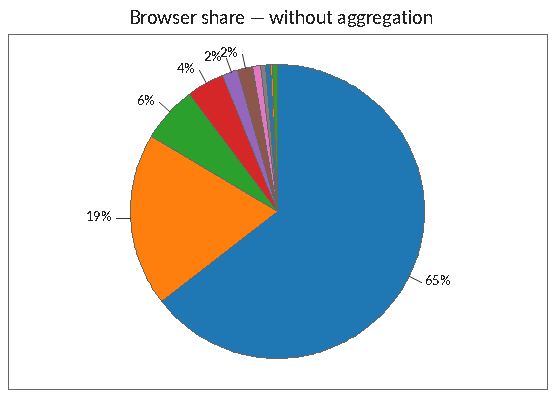
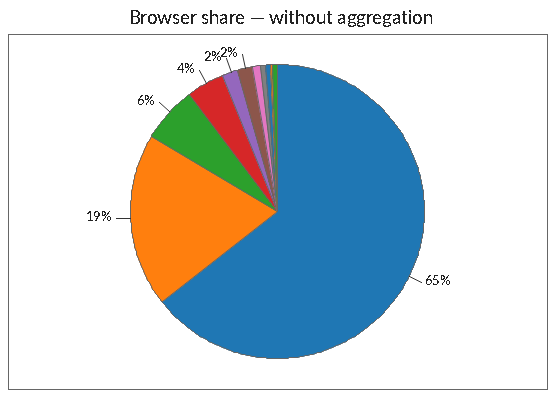
Polygon edge AA + second review-round fixes
Visual polish: anti-aliased outlines on filled-polygon and filled-wedge
shapes via two new helpers in fastchart_effects.{c,h}:

- fastchart_filled_polygon_aa() — gdImageFilledPolygon plus a
  gdAntiAliased outline pass over each edge. Wired into AreaChart
  (filled series + alpha overlay), PolarChart (filled radial polygon),
  and RadarChart (filled spider polygon).
- fastchart_filled_wedge_aa() — gdImageFilledArc(... gdPie) plus an
  AA outer arc and AA radial edges. Wired into PieChart (slices) and
  GaugeChart (zone arcs + sweep fill).

Gauge zone boundaries, pie slice separators, and radar / polar /
area angled edges now read smooth instead of stepped. Eight gallery
PNGs regenerate visibly: 05_pie_donut, 08_radar, 10_gauge, 16_polar,
27a_area_stacked, 27b_area_overlay, 29a_pie_no_threshold,
29b_pie_other.

Review-round fixes (all six findings, validated against source):

- StockChart double-free on log-scale failure: efree(candles) in the
  log-range error path freed self->candles via a local alias; the
  per-class extras destructor then double-freed on object dtor.
  Removed the stale efree; comment names the alias hazard.
- Format-string width / precision DoS: snprintf width is honored by
  libc, so "%500000000f" forced render hot paths into a multi-second
  loop. Capped width and precision digit counts at 3 in the format
  validator.
- setErrorBars allocation cap: clamped n to
  FASTCHART_MAX_POINTS_PER_SERIES (was unbounded).
[…]

Changed region(s): [[0.4554, 0.18, 0.5161, 0.51], [0.4554, 0.54, 0.4857, 0.57], [0.3946, 0.18, 0.425, 0.21]]

diff --git a/fastchart.c b/fastchart.c
@@ -1960,12 +1960,30 @@ static int fastchart_validate_double_format(const zend_string *fmt, const char *
         /* Skip flags */
         while (i < len && (p[i] == '-' || p[i] == '+' || p[i] == ' ' ||
                             p[i] == '#' || p[i] == '0' || p[i] == '\'')) i++;
-        /* Skip width */
-        while (i < len && p[i] >= '0' && p[i] <= '9') i++;
-        /* Skip precision */
+        /* Cap width and precision at three digits (max 999). libc's
+         * printf(3) honors the width by padding the output buffer; a
+         * format like "%500000000f" forces snprintf into a multi-second
+         * loop that translates straight into request CPU when chart
+         * labels render. Three digits is more than enough for any real
+         * label (max chart canvas is ~16K px wide). */
+        int wdigits = 0;
+        while (i < len && p[i] >= '0' && p[i] <= '9') {
+            if (++wdigits > 3) {
+                zend_value_error("FastChart\\Chart::%s() format width is capped at three digits", where);
+                return -1;
+            }
+            i++;
+        }
         if (i < len && p[i] == '.') {
             i++;
-            while (i < len && p[i] >= '0' && p[i] <= '9') i++;
+            int pdigits = 0;
+            while (i < len && p[i] >= '0' && p[i] <= '9') {
+                if (++pdigits > 3) {
+                    zend_value_error("FastChart\\Chart::%s() format precision is capped at three digits", where);
+                    return -1;
+                }
+                i++;
+            }
         }
         /* Reject length modifiers (l, ll, h, etc. -- they imply
          * non-double arg types). */
@@ -2439,6 +2457,12 @@ static int fastchart_parse_error_bars(zval *errs, double **out_lo,
         *out_n = 0;
         return 0;
     }
+    /* Cap at the per-series point limit so error-bar arrays can't
+     * blow past the bounds the rest of the series-data parsers
+     * enforce. setErrorBars data is per-point, so the appropriate
+     * cap is FASTCHART_MAX_POINTS_PER_SERIES — extra entries beyond
+     * that simply have no data point to attach to. */
+    if (n > FASTCHART_MAX_POINTS_PER_SERIES) n = FASTCHART_MAX_POINTS_PER_SERIES;
     double *lo = emalloc((size_t)n * sizeof(double));
     double *hi = emalloc((size_t)n * sizeof(double));
 
@@ -3340,22 +3364,38 @@ ZEND_METHOD(FastChart_PieChart, setExplode)
 
     fastchart_pie_obj *self = Z_FASTCHART_PIE_OBJ_P(ZEND_THIS);
     HashTable *ht = Z_ARRVAL_P(offsets);
-    uint32_t un = zend_hash_num_elements(ht);
     if (self->explode) { efree(self->explode); self->explode = NULL; }
     self->explode_count = 0;
-    if (un == 0) RETURN_ZVAL(ZEND_THIS, 1, 0);
-    if (un > FASTCHART_MAX_SLICES) un = FASTCHART_MAX_SLICES;
-    int n = (int)un;
+    if (zend_hash_num_elements(ht) == 0) RETURN_ZVAL(ZEND_THIS, 1, 0);
+
+    /* The stub documents [2 => 12] sparse syntax: the user names a
+     * slice index, the rest stay at 0. Walk by integer key so that
+     * sparse maps work; allocate through max(key) + 1 capped at
+     * FASTCHART_MAX_SLICES. The previous positional 0..n-1 walk
+     * silently dropped any entry whose key was beyond the element
+     * count (so [2 => 12] became n=1 and ignored slice 2). */
+    zend_ulong max_key = 0;
+    bool any_int = false;
+    {
+        zend_ulong k_idx;
+        zend_string *k_str;
+        zval *v;
+        ZEND_HASH_FOREACH_KEY_VAL(ht, k_idx, k_str, v) {
+            (void)v;
+            if (k_str) continue;  /* string keys ignored */
+            if (k_idx >= FASTCHART_MAX_SLICES) continue;
+            if (!any_int || k_idx > max_key) max_key = k_idx;
+            any_int = true;
+        } ZEND_HASH_FOREACH_END();
+    }
+    if (!any_int) RETURN_ZVAL(ZEND_THIS, 1, 0);
+    int n = (int)max_key + 1;
     self->explode = ecalloc((size_t)n, sizeof(zend_long));
-    /* Walk by index 0..n-1 so the array is positional even when the
-     * user supplied an associative-style { 0 => 8, 2 => 12 } shape. */
     for (int i = 0; i < n; i++) {
         zval *off_zv = zend_hash_index_find(ht, i);
         zend_long off = 0;
         if (off_zv && fastchart_zval_to_long(off_zv, &off) == 0 && off > 0) {
             self->explode[i] = off;
-        } else {
-            self->explode[i] = 0;
         }
     }
     self->explode_count = n;
@@ -3822,8 +3862,13 @@ ZEND_METHOD(FastChart_Chart, renderToFile)
         zend_value_error("FastChart\\Chart::renderToFile() could not infer format from extension; expected .png/.jpg/.jpeg/.webp/.gif/.avif");
         RETURN_THROWS();
     }
-    if (quality < 1 || quality > 100) {
-        zend_value_error("FastChart\\Chart::renderToFile() quality must be in [1, 100]");
+    /* Match the per-format render*() validators: WebP and AVIF accept
+     * quality 0 (smallest, lowest fidelity); only the JPEG encoder
+     * treats 0 as degenerate. The libgd encoder folds 0 into "best
+     * compression" for PNG too. Allow 0 across formats here so
+     * renderToFile is consistent with renderWebp() / renderAvif(). */
+    if (quality < 0 || quality > 100) {
+        zend_value_error("FastChart\\Chart::renderToFile() quality must be in [0, 100]");
         RETURN_THROWS();
     }
     if (php_check_open_basedir(ZSTR_VAL(path))) {
@@ -3912,6 +3957,15 @@ static int fastchart_parse_grid(zval *arr, fastchart_grid *out, const char *wher
     if ((size_t)cols > SIZE_MAX / sizeof(double) ||
         (size_t)rows > (SIZE_MAX / sizeof(double)) / (size_t)cols) {
         zend_value_error("%s grid dimensions overflow allocation", where);
+        return -1;
+    }
+    /* Per-request cell-count cap. Surface / contour grids are
+     * inherently bounded by canvas pixel resolution; nothing realistic
+     * needs more than ~10K cells. Without this cap, setGrid([10000][
+     * 10000]) allocates 800MB of doubles per call. */
+    if ((size_t)rows * (size_t)cols > FASTCHART_MAX_GRID_CELLS) {
+        zend_value_error("%s grid exceeds %d cells (got rows=%d cols=%d)",
+                         where, FASTCHART_MAX_GRID_CELLS, rows, cols);
         return -1;
     }
     out->cells = emalloc((size_t)rows * (size_t)cols * sizeof(double));
@@ -4575,10 +4629,14 @@ PHP_MINIT_FUNCTION(fastchart)
     /* Per-class handlers init. Each handlers struct gets its own
      * std offset matching its per-type struct layout, plus the
      * class's free / clone hooks. */
+/* Use offsetof, not XtOffsetOf — the latter was removed in PHP 8.6
+ * (`Zend/zend_portability.h`). offsetof works on every supported PHP
+ * version. The clone macro at fastchart_clone_object_for already uses
+ * offsetof; this site lagged behind. */
 #define FASTCHART_INIT_HANDLERS(name, T) do {                                            \
         memcpy(&fastchart_##name##_handlers, &std_object_handlers,                       \
                sizeof(zend_object_handlers));                                            \
-        fastchart_##name##_handlers.offset    = XtOffsetOf(T, std);                      \
+        fastchart_##name##_handlers.offset    = offsetof(T, std);                        \
         fastchart_##name##_handlers.free_obj  = fastchart_##name##_free_object;          \
         fastchart_##name##_handlers.clone_obj = fastchart_##name##_clone_object;         \
         fastchart_##name##_handlers.dtor_obj  = zend_objects_destroy_object;             \

diff --git a/fastchart_effects.c b/fastchart_effects.c
@@ -14,6 +14,8 @@
 #include "config.h"
 #endif
 
+#include <math.h>
+
 #include "php.h"
 #include "fastchart_effects.h"
 #include "fastchart_text.h"
@@ -206,6 +208,47 @@ static int shadow_color_alloc(gdImagePtr im, fastchart_obj *chart)
         gdImageColorAllocateAlpha(im, r, g, b, (int)chart->shadow_alpha);
     chart->shadow_color_valid = true;
     return chart->shadow_color_handle;
+}
+
+void fastchart_filled_polygon_aa(gdImagePtr im, gdPointPtr poly,
+                                 int n_pts, int color)
+{
+    if (n_pts < 3) return;
+    gdImageFilledPolygon(im, poly, n_pts, color);
+    /* Walk each edge as a 1px AA line. The fill is already opaque under
+     * the centerline, so the AA pass only contributes coverage to the
+     * fringe pixels just outside the rasterized fill — softening the
+     * jaggy step pattern without thickening the shape. */
+    gdImageSetAntiAliased(im, color);
+    for (int i = 0; i < n_pts; i++) {
+        int j = (i + 1) % n_pts;
+        gdImageLine(im, poly[i].x, poly[i].y,
+                        poly[j].x, poly[j].y, gdAntiAliased);
+    }
+}
+
+void fastchart_filled_wedge_aa(gdImagePtr im, int cx, int cy,
+                               int diameter, int start_deg, int end_deg,
+                               int color)
+{
+    gdImageFilledArc(im, cx, cy, diameter, diameter,
+                     start_deg, end_deg, color, gdPie);
+    /* AA outline: outer arc + the two radial edges from center to the
+     * arc endpoints. libgd's gdImageArc honors gdAntiAliased, so the
+     * arc curve itself reads smooth; the two radials are 1px AA lines
+     * mirroring the fastchart_filled_polygon_aa idea. */
+    gdImageSetAntiAliased(im, color);
+    gdImageArc(im, cx, cy, diameter, diameter,
+               start_deg, end_deg, gdAntiAliased);
+    int radius = diameter / 2;
+    double rs = start_deg * M_PI / 180.0;
+    double re = end_deg   * M_PI / 180.0;
+    int sx = cx + (int)((double)radius * cos(rs));
+    int sy = cy + (int)((double)radius * sin(rs));
+    int ex = cx + (int)((double)radius * cos(re));
+    int ey = cy + (int)((double)radius * sin(re));
+    gdImageLine(im, cx, cy, sx, sy, gdAntiAliased);
+    gdImageLine(im, cx, cy, ex, ey, gdAntiAliased);
 }
 
 void fastchart_shadow_filled_rectangle(gdImagePtr im, fastchart_obj *chart,

diff --git a/fastchart_pie.c b/fastchart_pie.c
@@ -140,13 +140,30 @@ int fastchart_pie_render_to_image(fastchart_pie_obj *self, gdImagePtr im)
         fastchart_shadow_filled_arc(im, (fastchart_obj *)self, slice_cx, slice_cy, diameter,
                                     (int)floor(start_deg),
                                     (int)ceil(start_deg + sweep));
-        gdImageFilledArc(im, slice_cx, slice_cy, diameter, diameter,
-                         (int)floor(start_deg), (int)ceil(start_deg + sweep),
-                         color, gdPie);
+        /* Wedge fill + AA outline of arc and radial edges in the slice
+         * color softens the angled boundary. The separator stroke
+         * below then lays a 1px AA line in the border color over the
+         * outline so adjacent slices remain visually distinct. */
+        fastchart_filled_wedge_aa(im, slice_cx, slice_cy, diameter,
+                                  (int)floor(start_deg),
+                                  (int)ceil(start_deg + sweep),
+                                  color);
         int edge = self->edge_color >= 0 ? (int)self->edge_color : pal.border;
-        gdImageFilledArc(im, slice_cx, slice_cy, diameter, diameter,
-                         (int)floor(start_deg), (int)ceil(start_deg + sweep),
-                         edge, gdNoFill | gdEdged);
+        gdImageSetAntiAliased(im, edge);
+        gdImageArc(im, slice_cx, slice_cy, diameter, diameter,
+                   (int)floor(start_deg), (int)ceil(start_deg + sweep),
+                   gdAntiAliased);
+        int radius = diameter / 2;
+        double rs = floor(start_deg) * M_PI / 180.0;
+        double re = ceil(start_deg + sweep) * M_PI / 180.0;
+        gdImageLine(im, slice_cx, slice_cy,
+                    slice_cx + (int)((double)radius * cos(rs)),
+                    slice_cy + (int)((double)radius * sin(rs)),
+                    gdAntiAliased);
+        gdImageLine(im, slice_cx, slice_cy,
+                    slice_cx + (int)((double)radius * cos(re)),
+                    slice_cy + (int)((double)radius * sin(re)),
+                    gdAntiAliased);
         start_deg += sweep;
     }
 

diff --git a/fastchart_gauge.c b/fastchart_gauge.c
@@ -64,8 +64,7 @@ int fastchart_gauge_render_to_image(fastchart_gauge_obj *self, gdImagePtr im)
 
     if (self->zones && self->n_zones > 0) {
         /* Background fill (a thin ring, drawn as a fat arc). */
-        gdImageFilledArc(im, cx, cy, diameter, diameter, 180, 360,
-                         pal.grid, gdPie);
+        fastchart_filled_wedge_aa(im, cx, cy, diameter, 180, 360, pal.grid);
         for (int i = 0; i < self->n_zones; i++) {
             const fastchart_gauge_zone *zn = &self->zones[i];
             int color = default_color;
@@ -91,19 +90,17 @@ int fastchart_gauge_render_to_image(fastchart_gauge_obj *self, gdImagePtr im)
             int end   = (int)(180 + frac_b * 180);
             if (start > end) { int t = start; start = end; end = t; }
             if (end <= start) continue;  /* empty zone, skip */
-            gdImageFilledArc(im, cx, cy, diameter, diameter,
-                             start, end, color, gdPie);
+            fastchart_filled_wedge_aa(im, cx, cy, diameter, start, end, color);
         }
     } else {
         /* Single-color sweep from min to value, with the rest in grid color. */
-        gdImageFilledArc(im, cx, cy, diameter, diameter, 180, 360,
-                         pal.grid, gdPie);
+        fastchart_filled_wedge_aa(im, cx, cy, diameter, 180, 360, pal.grid);
         double aV = gauge_value_to_deg(v, mn, mx);
         int start = 180;
         int end = 180 + (int)(180 - aV);
         if (end > start) {
-            gdImageFilledArc(im, cx, cy, diameter, diameter,
-                             start, end, default_color, gdPie);
+            fastchart_filled_wedge_aa(im, cx, cy, diameter,
+                                      start, end, default_color);
         }
     }
 

diff --git a/fastchart_effects.h b/fastchart_effects.h
@@ -57,6 +57,24 @@ int fastchart_gradient_filled_polygon(gdImagePtr im, fastchart_obj *chart,
                                       fastchart_gradient_cache *cache,
                                       gdPointPtr poly, int n_pts);
 
+/* Filled polygon with anti-aliased edges. libgd's gdImageFilledPolygon
+ * paints a hard-edged fill; this helper walks each segment with the
+ * AA renderer afterwards so angled edges read as smooth. Use it for
+ * any polygon whose visible edges are diagonal — area-chart fills,
+ * radar / polar shapes, pie slices via the radial+arc decomposition
+ * at the call site. Axis-aligned rectangles don't benefit and should
+ * keep using gdImageFilledRectangle directly. */
+void fastchart_filled_polygon_aa(gdImagePtr im, gdPointPtr poly,
+                                 int n_pts, int color);
+
+/* Filled wedge (pie slice / gauge zone) with anti-aliased outer arc
+ * and radial edges. Wraps gdImageFilledArc(... gdPie) and adds the
+ * AA outline. start_deg / end_deg follow libgd's CCW convention with
+ * 0 = +x (3 o'clock). */
+void fastchart_filled_wedge_aa(gdImagePtr im, int cx, int cy,
+                               int diameter, int start_deg, int end_deg,
+                               int color);
+
 /* Drop-shadow helpers. Each is a no-op when chart->has_drop_shadow is
  * false. The "before" call paints a darkened/colored offset shape
  * underneath; the actual fill follows on top. */

diff --git a/fastchart_area.c b/fastchart_area.c
@@ -149,7 +149,7 @@ int fastchart_area_render_to_image(fastchart_area_obj *self, gdImagePtr im)
             if (n_pts >= 3) {
                 fastchart_shadow_filled_polygon(im, (fastchart_obj *)self, poly, n_pts);
                 if (!fastchart_gradient_filled_polygon(im, (fastchart_obj *)self, &grad_cache, poly, n_pts)) {
-                    gdImageFilledPolygon(im, poly, n_pts, rgb_color);
+                    fastchart_filled_polygon_aa(im, poly, n_pts, rgb_color);
                 }
                 if (self->edge_color >= 0) {
                     gdImagePolygon(im, poly, n_pts, (int)self->edge_color);
@@ -203,7 +203,7 @@ int fastchart_area_render_to_image(fastchart_area_obj *self, gdImagePtr im)
                 fastchart_shadow_filled_polygon(im, (fastchart_obj *)self, poly, n_pts);
                 gdImageAlphaBlending(im, 1);
                 if (!fastchart_gradient_filled_polygon(im, (fastchart_obj *)self, &grad_cache, poly, n_pts)) {
-                    gdImageFilledPolygon(im, poly, n_pts, alpha_color);
+                    fastchart_filled_polygon_aa(im, poly, n_pts, alpha_color);
                 }
                 if (self->edge_color >= 0) {
                     gdImagePolygon(im, poly, n_pts, (int)self->edge_color);

diff --git a/fastchart_stock.c b/fastchart_stock.c
@@ -116,7 +116,11 @@ int fastchart_stock_render_to_image(fastchart_stock_obj *self, gdImagePtr im)
     fastchart_value_range yrange;
     if (self->y_axis_scale == FASTCHART_SCALE_LOG) {
         if (fastchart_value_range_compute_log(y_min, y_max, &yrange) != 0) {
-            efree(candles);
+            /* `candles` aliases self->candles — the per-class extras
+             * destructor (fastchart_stock_release_extras) frees that
+             * buffer, so we must NOT efree the alias here. Doing so
+             * leaves self->candles pointing at freed memory; the next
+             * unset($obj) double-frees. */
             zend_value_error("FastChart\\StockChart::draw(): log Y-axis requires strictly-positive prices");
             return -1;
         }

diff --git a/php_fastchart.h b/php_fastchart.h
@@ -283,6 +283,12 @@ typedef struct {
 
 #define FASTCHART_MAX_BUBBLE_POINTS 4096
 
+/* SurfaceChart / ContourChart grid cell count cap. 10K cells covers
+ * any realistic chart size (a 100x100 grid is already finer than the
+ * pixel resolution of typical chart canvases). Without this cap a
+ * 10000x10000 grid allocates 800MB of doubles per setGrid call. */
+#define FASTCHART_MAX_GRID_CELLS 10000
+
 /* BoxPlot entry. five-number summary plus optional outliers. */
 typedef struct {
     char *label;          /* owned */

diff --git a/fastchart_radar.c b/fastchart_radar.c
@@ -162,7 +162,7 @@ int fastchart_radar_render_to_image(fastchart_radar_obj *self, gdImagePtr im)
             int alpha = gdImageColorAllocateAlpha(im, rr, gg, bb, 90);
             gdImageAlphaBlending(im, 1);
             fastchart_shadow_filled_polygon(im, (fastchart_obj *)self, poly, n_axes);
-            gdImageFilledPolygon(im, poly, n_axes, alpha);
+            fastchart_filled_polygon_aa(im, poly, n_axes, alpha);
             gdImageAlphaBlending(im, 0);
         }
         gdImageSetThickness(im, 2);

diff --git a/fastchart_polar.c b/fastchart_polar.c
@@ -107,7 +107,7 @@ int fastchart_polar_render_to_image(fastchart_polar_obj *self, gdImagePtr im)
             int alpha = gdImageColorAllocateAlpha(im, rr, gg, bb, 90);
             gdImageAlphaBlending(im, 1);
             fastchart_shadow_filled_polygon(im, (fastchart_obj *)self, poly, n_pts);
-            gdImageFilledPolygon(im, poly, n_pts, alpha);
+            fastchart_filled_polygon_aa(im, poly, n_pts, alpha);
             gdImageAlphaBlending(im, 0);
         }
         gdImageSetThickness(im, 2);
